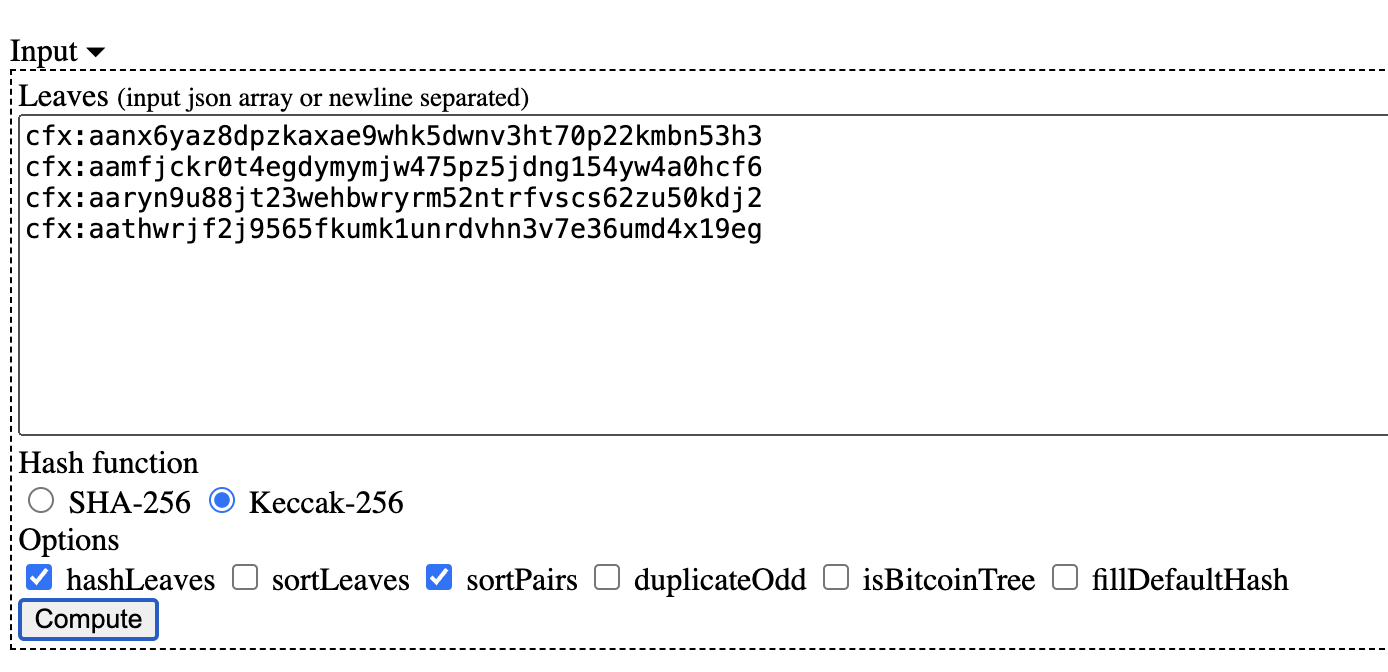
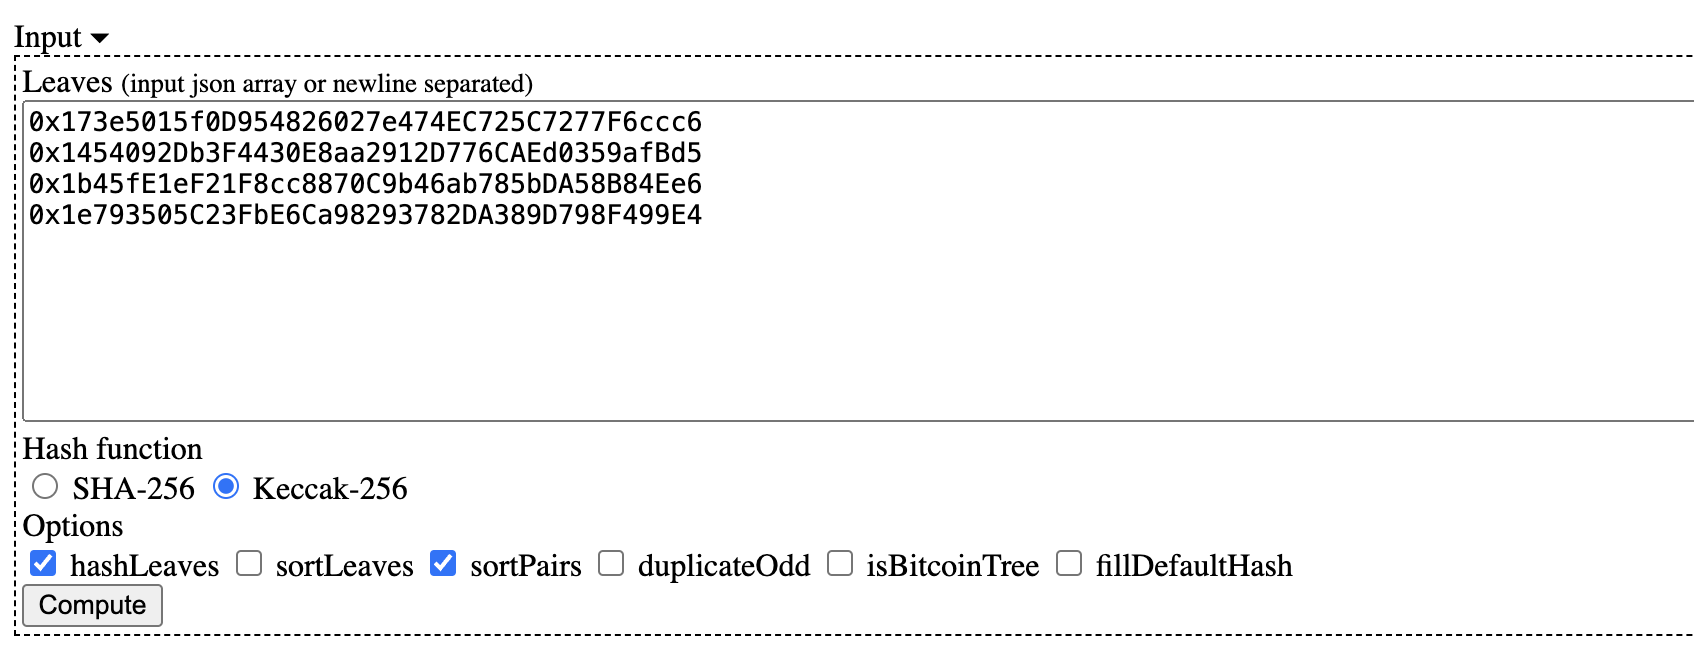
revised based on feedback

Changed region(s): [[0.0, 0.0302, 1.0, 0.9668]]

diff --git a/docs/general/build/smart-contracts/merkle-tree.md b/docs/general/build/smart-contracts/merkle-tree.md
@@ -21,14 +21,10 @@ We can use [this webpage](https://lab.miguelmota.com/merkletreejs/example/) or t
 Here, we'll use the webpage to generate a `Merkle Tree` with 4 addresses as leaf nodes. Input the leaf nodes as follows:
 
 ```solidity
-
-[
-    "cfx:aanx6yaz8dpzkaxae9whk5dwnv3ht70p22kmbn53h3",
-    "cfx:aamfjckr0t4egdymymjw475pz5jdng154yw4a0hcf6",
-    "cfx:aaryn9u88jt23wehbwryrm52ntrfvscs62zu50kdj2",
-    "cfx:aathwrjf2j9565fkumk1unrdvhn3v7e36umd4x19eg"
-]
-
+0x173e5015f0D954826027e474EC725C7277F6ccc6
+0x1454092Db3F4430E8aa2912D776CAEd0359afBd5
+0x1b45fE1eF21F8cc8870C9b46ab785bDA58B84Ee6
+0x1e793505C23FbE6Ca98293782DA389D798F499E4
 ```
 
 ![Merkle Proof](../../image/merkle-tree-tool.png)
@@ -36,23 +32,23 @@ Here, we'll use the webpage to generate a `Merkle Tree` with 4 addresses as leaf
 Select the options `Keccak-256`, `hashLeaves`, and `sortPairs` from the menu, and then click `Compute` to generate the `Merkle Tree`. The expanded `Merkle Tree` looks like this:
 
 ```
-└─ Root: 7c673c5ecb8433fe9c80facbb70c2d229594098cdee84e4ec0fd5bc1acd4c176
-   ├─ 8d4991806718c7ea7b0f068bb9d2edd409ef2345b5bd5ec3153051b03a5d35b7
-   │  ├─ Leaf0: 80fb605c5563c3225af42a18df921edcabe19e0e6e22066024cce4b14bbc06ec
-   │  └─ Leaf1: 3d086ece86f43ea620356709c6867a3662f54f8d51ce1f85b8e5125242c75a6d
-   └─ 11f6b7dca7ed5f46ac3fa990b370f130f3db3dcfcde770a6958e676449348d97
-      ├─ Leaf2: bed238de7f62b0198a0a969b9d4ed809a036b4882740d2125b81dc9fc0da1d25
-      └─ Leaf3: adac58c9ca5c47917367d64baa67a6ba7ce3e67145fb19fb82b83c7766298130
+└─ Root:bd03a754a3ce4f3a7fde0905f483667a3b7e4fbe045fb9d64a6332ac370edc0d
+   ├─ 3fa79a5abffff5fb4a81bc7fcbb897b4f8614e904dadadea75e3aa61683411ad
+   │  ├─ Leaf0: ff3f6126c8b4b3772966d420b119bc1d53b1b4b0cf120d6a8a4a8c00d1a2678c
+   │  └─ Leaf1: 40ce145f30cfc8d1a2f78bdfde3bde5b17795dc585be594857bca48b77610e5d
+   └─ 3909e5d3da324e8cbb43aef02ba5a865e93d71166c44dfda908b761a5b3c81f3
+      ├─ Leaf2: 1007ff1353d00afa8cab69db454edb27a5d3701206f8a561f7cf61987ed53a52
+      └─ Leaf3: 675dd8032657ba91f22c38b195b236fd0392475765cb348702fd5fe2b273becd
 ```
 
 ## Merkle Proof Verification
 
-Using the website, we can obtain the `proof` for `address 0`: `cfx:aanx6yaz8dpzkaxae9whk5dwnv3ht70p22kmbn53h3`, which consists of the hash values of the blue nodes in the second diagram:
+Using the website, we can obtain the `proof` for `address 0`: `0x173e5015f0D954826027e474EC725C7277F6ccc6`, which consists of the hash values of the blue nodes in the second diagram:
 
 ```solidity
 [
[4 lines of base64/hex data omitted]
 ]
 ```
 
@@ -105,4 +101,6 @@ By inputting the hash of `address 0`, the `root`, and the corresponding `proof` 
 
 ## Using Merkle Tree for NFT
 
-If you want to use a Merkle tree to issue whitelisted NFTs on Conflux Core Space, please refer to this article: [Merkle Tree NFT Whitelist on CoreSpace using Hardhat](docs/core/tutorials/nft-tutorials/whitelists).
+Merkle Trees can be effectively used to manage whitelists for NFT issuance. By leveraging Merkle Trees, you can efficiently verify if an address is part of the whitelist without needing to store the entire list on-chain. This method ensures security and reduces gas costs.
+
+If you are interested in using a Merkle Tree to issue whitelisted NFTs on Conflux Core Space, please refer to this detailed tutorial: [Merkle Tree NFT Whitelist on CoreSpace using Hardhat](docs/core/tutorials/nft-tutorials/whitelists). This guide provides step-by-step instructions on setting up a Merkle Tree, generating proofs, and integrating them into your smart contracts using the Hardhat development environment.

diff --git a/docs/general/conflux-basics/glossary.md b/docs/general/conflux-basics/glossary.md
@@ -167,6 +167,8 @@ Related links:
 ### **Merkle Tree**
 A Merkle tree, in cryptography and computer science, is a tree in which every leaf node is labelled with the hash of a data block, and every non-leaf node is labelled with the cryptographic hash of the labels of its child nodes. Merkle trees are used in blockchains to efficiently verify the contents of large data structures.
 
+Refer to [Merkle Tree](docs/general/build/smart-contracts/merkle-tree.md) for more information.
+
 ### **Mined**
 A "mined" block in the Conflux Network refers to a block in which transactions have been validated and added to the blockchain after successfully being processed through mining. This status indicates that the block has passed the network's consensus mechanism, ensuring its transactions are secured and immutable within the blockchain ledger. The term differentiates such blocks from those still awaiting validation.
 
